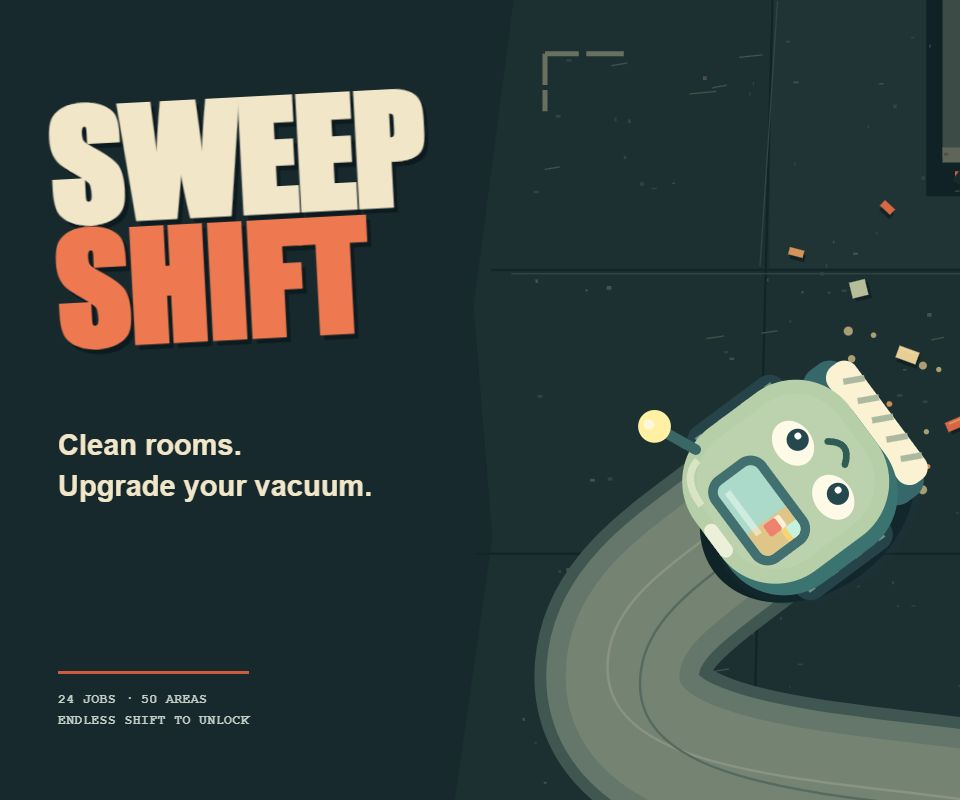
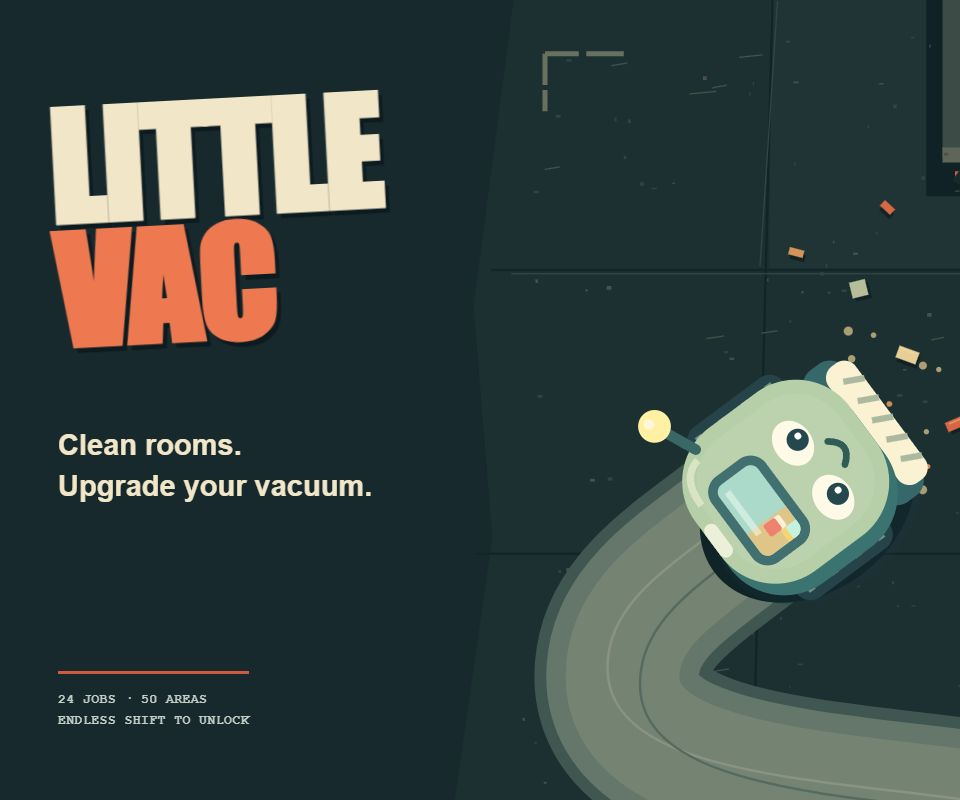
Rename Sweep Shift to Little Vac

Changed region(s): [[0.0312, 0.0938, 0.4688, 0.4375]]

diff --git a/dist/app.js b/dist/app.js
@@ -56,7 +56,7 @@ function renderHome(focus=true){
   const target=continueTarget(),active=target.type==='resume',room=target.room,progressed=career.completed.length>0||Object.values(career.upgrades).some(Boolean),count=affordable(career).length;
   const label={resume:'Resume room',ending:'Finish campaign',endless:'Play endless',rooms:'Choose a room',room:progressed?'Continue':'Play'}[target.type];
   const caption=room?(room.id?`Room ${room.id} · ${room.name}`:'Endless Shift'):'';
-  main.innerHTML=`<section class="home-menu"><canvas id="titleArt" class="title-art" width="960" height="640" aria-hidden="true"></canvas><div class="title-content"><h1 class="title-logo">SWEEP <span>SHIFT</span></h1><nav class="title-options" aria-label="Main menu">${action('continue',`<span>${label}</span><span class="title-play-arrow" aria-hidden="true">▶</span>`,'home-play title-choice')}${caption?`<p class="title-next">${esc(caption)}</p>`:''}${action('rooms','Rooms','title-choice')}${action('shop',`<span>Upgrades${active?' <small>Locked</small>':count?` <small>${count} ready</small>`:''}</span>`,'title-choice',active?'title="Finish or quit this job before upgrading"':'')}${action('controls','How to play','title-choice')}</nav></div></section>`;
+  main.innerHTML=`<section class="home-menu"><canvas id="titleArt" class="title-art" width="960" height="640" aria-hidden="true"></canvas><div class="title-content"><h1 class="title-logo">LITTLE <span>VAC</span></h1><nav class="title-options" aria-label="Main menu">${action('continue',`<span>${label}</span><span class="title-play-arrow" aria-hidden="true">▶</span>`,'home-play title-choice')}${caption?`<p class="title-next">${esc(caption)}</p>`:''}${action('rooms','Rooms','title-choice')}${action('shop',`<span>Upgrades${active?' <small>Locked</small>':count?` <small>${count} ready</small>`:''}</span>`,'title-choice',active?'title="Finish or quit this job before upgrading"':'')}${action('controls','How to play','title-choice')}</nav></div></section>`;
   const art=$('#titleArt'),artCtx=art.getContext('2d'),dpr=Math.min(2,window.devicePixelRatio||1);
   art.width=960*dpr;art.height=640*dpr;artCtx.setTransform(dpr,0,0,dpr,0,0);drawTitle(artCtx,0,true);
   bindActions(main,focus);
@@ -183,7 +183,7 @@ function jobDetails(){const r=run;return `<details class="pause-details"><summar
 function pause(){if(screen!=='play'||!hasActiveRun()||modal.open)return;openModal(`<section class="pause-menu"><p class="pause-caption">TAKE A BREATHER</p><h2 id="modalTitle">PAUSED</h2><p class="pause-room">${esc(run.room.name)}<br>${areaCount()>1?`Area ${areaNumber()} of ${areaCount()} · `:''}${Math.floor(run.percent*100)}% clean</p><div class="pause-options">${action('resume','<span>Resume</span><span aria-hidden="true">▶</span>','pause-resume')}<div class="pause-shortcuts">${action('rooms','Rooms')}${action('shop','Upgrades')}</div>${action('controls','How to play')}${action('settings','Settings')}${action('title','Main menu')}</div>${jobDetails()}<div class="pause-leave"><div>${action('restart','Restart','ghost')}${action('quit','Quit & upgrade','pause-quit')}</div><p>Restarting or quitting loses unfinished coins.</p></div></section>`,'pause');}
 function settings(){const backToPause=dialogScreen==='pause';if(modal.open)modal.close();openModal(`<h2 id="modalTitle">Settings</h2><label class="setting-row">Sound effects<input id="muteSetting" type="checkbox" ${!career.settings.muted?'checked':''}></label><label class="setting-row">Effects volume<input id="volumeSetting" aria-label="Effects volume" type="range" min="0" max="1" step=".05" value="${career.settings.effects}"></label><label class="setting-row">Reduced motion<input id="motionSetting" type="checkbox" ${career.settings.reducedMotion?'checked':''}></label><p>Finished rooms, coins, and purchases save automatically. Browsing menus keeps your current room paused. Upgrades open after you finish or quit the room. Restarting, quitting, or closing the game discards unfinished cleaning.</p><div class="button-row">${action(backToPause?'back-pause':'resume',backToPause?'Back to pause':'Done','primary')}${action('new','Reset career','ghost')}</div>`,backToPause?'pause-child':'');$('#muteSetting').onchange=async e=>{const value=!e.target.checked;await save(c=>{c.settings.muted=value;});};$('#volumeSetting').onchange=async e=>{const value=Number(e.target.value);await save(c=>{c.settings.effects=value;});};$('#motionSetting').onchange=async e=>{const value=e.target.checked;await save(c=>{c.settings.reducedMotion=value;});};}
 function controls(){const backToPause=dialogScreen==='pause';if(modal.open)modal.close();openModal(`<section class="how-to-play"><h2 id="modalTitle">How to play</h2>${quickGuide()}<details class="guide-tips"><summary>A few extra tips</summary><ul><li><strong>Pause:</strong> press Esc or the Pause button.</li><li><strong>Stop:</strong> move the mouse outside the room, or release your keys / touch.</li><li><strong>Last bits of dirt:</strong> look for yellow circles.</li><li><strong>Heavy dust:</strong> stay over it a little longer.</li><li><strong>Hallways:</strong> clean 100% to unlock the next door. Once open, walk both ways. Rooms and your bag stay as you left them.</li><li><strong>Upgrades:</strong> finish the job, or pause and quit. Quitting loses this job’s unfinished coins.</li></ul></details><div class="button-row">${action(backToPause?'back-pause':'resume',backToPause?'Back to pause':screen==='play'?'Back to room':'Got it','primary')}</div></section>`,backToPause?'pause-child':'');}
-function credits(){if(modal.open)modal.close();openModal(`<h2 id="modalTitle">Credits</h2><div class="credit-list"><p><strong>Sweep Shift</strong><br>A tiny cleaning game by Nathan Norris.</p><p>Built with JavaScript, Canvas, and synthesized Web Audio. All game artwork is drawn by original code. No external runtime assets or libraries are required.</p><p>Created with AI assistance for implementation, design iteration, writing, and testing.</p><p>Thanks for playing.</p></div><div class="button-row">${action('resume','Close','primary')}</div>`);}
+function credits(){if(modal.open)modal.close();openModal(`<h2 id="modalTitle">Credits</h2><div class="credit-list"><p><strong>Little Vac</strong><br>A tiny cleaning game by Nathan Norris.</p><p>Built with JavaScript, Canvas, and synthesized Web Audio. All game artwork is drawn by original code. No external runtime assets or libraries are required.</p><p>Created with AI assistance for implementation, design iteration, writing, and testing.</p><p>Thanks for playing.</p></div><div class="button-row">${action('resume','Close','primary')}</div>`);}
 function confirmReset(){const backToPause=dialogScreen==='pause-child';if(modal.open)modal.close();openModal(`<h2 id="modalTitle">Reset your progress?</h2><p>This resets your rooms, coins, upgrades, medals, and treasures. Your current career cannot be restored afterward.</p><div class="button-row">${action(backToPause?'back-pause':'resume','Keep my career','primary')}${action('reset-confirm','Reset and start again')}</div>`,backToPause?'pause-child':'');}
 function continueShift(){
   const target=continueTarget();

diff --git a/dist/index.html b/dist/index.html
@@ -1,5 +1,5 @@
 <!doctype html>
-<html lang="en"><head><meta charset="utf-8"><meta name="viewport" content="width=device-width,initial-scale=1,viewport-fit=cover"><meta name="theme-color" content="#17292d"><meta name="description" content="Guide a tiny vacuum robot through 24 jobs and 50 messy areas. Clean up, earn coins, upgrade your robot, and unlock Endless Shift."><title>Sweep Shift — Robot cleaning game</title><link rel="icon" href="icon.svg"><link rel="stylesheet" href="style.css"></head>
-<body><div id="app"><header class="masthead"><a class="wordmark" href="#" id="homeLink" aria-label="Sweep Shift home"><img src="icon.svg" width="29" height="29" alt="">SWEEP SHIFT</a><div class="header-right"><button id="soundBtn" class="icon-button" aria-label="Mute sound">♪</button><button id="settingsBtn" class="icon-button" aria-label="Settings">⚙</button></div></header><nav id="gameNav" aria-label="Game navigation"></nav><div id="saveWarning" class="save-warning" role="status" hidden></div>
-<main id="main"></main><footer class="footer"><span>By Nathan Norris</span><button id="creditsBtn">Credits</button><span class="version">v1.6.2</span></footer></div>
+<html lang="en"><head><meta charset="utf-8"><meta name="viewport" content="width=device-width,initial-scale=1,viewport-fit=cover"><meta name="theme-color" content="#17292d"><meta name="description" content="Guide a tiny vacuum robot through 24 jobs and 50 messy areas. Clean up, earn coins, upgrade your robot, and unlock Endless Shift."><title>Little Vac — Robot cleaning game</title><link rel="icon" href="icon.svg"><link rel="stylesheet" href="style.css"></head>
+<body><div id="app"><header class="masthead"><a class="wordmark" href="#" id="homeLink" aria-label="Little Vac home"><img src="icon.svg" width="29" height="29" alt="">LITTLE VAC</a><div class="header-right"><button id="soundBtn" class="icon-button" aria-label="Mute sound">♪</button><button id="settingsBtn" class="icon-button" aria-label="Settings">⚙</button></div></header><nav id="gameNav" aria-label="Game navigation"></nav><div id="saveWarning" class="save-warning" role="status" hidden></div>
+<main id="main"></main><footer class="footer"><span>By Nathan Norris</span><button id="creditsBtn">Credits</button><span class="version">v1.6.3</span></footer></div>
 <dialog id="modal" aria-labelledby="modalTitle"><div id="modalContent"></div></dialog><div id="toast" role="status" aria-live="polite"></div><div id="announcement" class="sr-only" aria-live="polite"></div><script type="module" src="app.js"></script></body></html>

diff --git a/marketing/banner.html b/marketing/banner.html
@@ -1,5 +1,5 @@
 <!doctype html>
-<html lang="en"><head><meta charset="utf-8"><meta name="viewport" content="width=1260,initial-scale=1"><title>Sweep Shift — Page banner</title>
+<html lang="en"><head><meta charset="utf-8"><meta name="viewport" content="width=1260,initial-scale=1"><title>Little Vac — Page banner</title>
 <style>
 *{box-sizing:border-box}html,body{margin:0;width:1260px;height:320px;overflow:hidden;background:#17292d;color:#f2e6c9}body{font-family:Arial,Helvetica,sans-serif}.banner{position:relative;width:1260px;height:320px;overflow:hidden}canvas{position:absolute;display:block;left:415px;top:-190px;width:880px;height:586.6667px}h1{position:absolute;left:52px;top:47px;margin:0;font:900 105px/.86 Impact,'Arial Black',Arial,sans-serif;letter-spacing:-1.5px;text-shadow:3px 4px 0 #0d1b20;transform:rotate(-3deg);transform-origin:left center}h1 span{display:block;color:#ee7951}.tagline{position:absolute;left:408px;top:93px;margin:0;font-size:29px;line-height:1.35;font-weight:700}.details{position:absolute;left:410px;top:199px;margin:0;padding-top:13px;border-top:3px solid #ce5b3e;font:700 12px/1.5 'Courier New',monospace;letter-spacing:.5px;color:#c3cec6}
-</style></head><body><main class="banner" aria-label="Sweep Shift: Clean rooms. Upgrade your vacuum. 24 jobs and 50 areas."><canvas id="bannerArt" width="1320" height="880" aria-hidden="true"></canvas><h1>SWEEP <span>SHIFT</span></h1><p class="tagline">Clean rooms.<br>Upgrade your vacuum.</p><p class="details">24 JOBS · 50 AREAS<br>ENDLESS SHIFT TO UNLOCK</p></main><script type="module">import {drawTitle} from '../render.js';const ctx=document.querySelector('#bannerArt').getContext('2d');ctx.scale(1320/960,880/640);drawTitle(ctx,0,true);document.documentElement.dataset.bannerReady='true';</script></body></html>
+</style></head><body><main class="banner" aria-label="Little Vac: Clean rooms. Upgrade your vacuum. 24 jobs and 50 areas."><canvas id="bannerArt" width="1320" height="880" aria-hidden="true"></canvas><h1>LITTLE <span>VAC</span></h1><p class="tagline">Clean rooms.<br>Upgrade your vacuum.</p><p class="details">24 JOBS · 50 AREAS<br>ENDLESS SHIFT TO UNLOCK</p></main><script type="module">import {drawTitle} from '../render.js';const ctx=document.querySelector('#bannerArt').getContext('2d');ctx.scale(1320/960,880/640);drawTitle(ctx,0,true);document.documentElement.dataset.bannerReady='true';</script></body></html>

diff --git a/marketing/launch.html b/marketing/launch.html
@@ -1,5 +1,5 @@
 <!doctype html>
-<html lang="en"><head><meta charset="utf-8"><meta name="viewport" content="width=960,initial-scale=1"><title>Sweep Shift — Launch artwork</title>
+<html lang="en"><head><meta charset="utf-8"><meta name="viewport" content="width=960,initial-scale=1"><title>Little Vac — Launch artwork</title>
 <style>
 *{box-sizing:border-box}html,body{margin:0;width:960px;height:800px;overflow:hidden;background:#17292d;color:#f2e6c9}body{font-family:Arial,Helvetica,sans-serif}.launch{position:relative;width:960px;height:800px;overflow:hidden}canvas{position:absolute;display:block;left:-120px;top:0;width:1200px;height:800px}h1{position:absolute;left:53px;top:104px;margin:0;font:900 144px/.86 Impact,'Arial Black',Arial,sans-serif;letter-spacing:-2px;text-shadow:4px 5px 0 #0d1b20;transform:rotate(-3deg);transform-origin:left center}h1 span{display:block;color:#ee7951}.tagline{position:absolute;left:58px;top:425px;margin:0;font-size:29px;line-height:1.4;font-weight:700}.details{position:absolute;left:58px;bottom:68px;margin:0;padding-top:16px;border-top:3px solid #ce5b3e;font:700 13px/1.6 'Courier New',monospace;letter-spacing:.5px;color:#c3cec6}
-</style></head><body><main class="launch" aria-label="Sweep Shift: a robot cleaning game with 24 jobs and 50 areas."><canvas id="launchArt" width="1200" height="800" aria-hidden="true"></canvas><h1>SWEEP <span>SHIFT</span></h1><p class="tagline">Clean rooms.<br>Upgrade your vacuum.</p><p class="details">24 JOBS · 50 AREAS<br>ENDLESS SHIFT TO UNLOCK</p></main><script type="module">import {drawTitle} from '../render.js';const ctx=document.querySelector('#launchArt').getContext('2d');ctx.scale(1200/960,800/640);drawTitle(ctx,0,true);document.documentElement.dataset.launchReady='true';</script></body></html>
+</style></head><body><main class="launch" aria-label="Little Vac: a robot cleaning game with 24 jobs and 50 areas."><canvas id="launchArt" width="1200" height="800" aria-hidden="true"></canvas><h1>LITTLE <span>VAC</span></h1><p class="tagline">Clean rooms.<br>Upgrade your vacuum.</p><p class="details">24 JOBS · 50 AREAS<br>ENDLESS SHIFT TO UNLOCK</p></main><script type="module">import {drawTitle} from '../render.js';const ctx=document.querySelector('#launchArt').getContext('2d');ctx.scale(1200/960,800/640);drawTitle(ctx,0,true);document.documentElement.dataset.launchReady='true';</script></body></html>

diff --git a/marketing/cover.html b/marketing/cover.html
@@ -3,8 +3,8 @@
 <head>
   <meta charset="utf-8">
   <meta name="viewport" content="width=1260,initial-scale=1">
-  <meta name="description" content="Sweep Shift cover using the game's workshop title artwork.">
-  <title>Sweep Shift — Cover artwork</title>
+  <meta name="description" content="Little Vac cover using the game's workshop title artwork.">
+  <title>Little Vac — Cover artwork</title>
   <style>
     *{box-sizing:border-box}html,body{margin:0;width:1260px;height:1000px;overflow:hidden;background:#17292d;color:#f2e6c9}
     body{font-family:Arial,Helvetica,sans-serif}.cover{position:relative;width:1260px;height:1000px;overflow:hidden}
@@ -14,9 +14,9 @@
     .details{position:absolute;left:80px;bottom:85px;margin:0;padding-top:19px;border-top:4px solid #ce5b3e;font:700 17px/1.7 'Courier New',monospace;letter-spacing:1px;color:#c3cec6}
   </style>
 </head>
-<body><main class="cover" aria-label="Sweep Shift: a vacuum robot leaving a clean trail across a workshop floor.">
+<body><main class="cover" aria-label="Little Vac: a vacuum robot leaving a clean trail across a workshop floor.">
   <canvas id="coverArt" width="1500" height="1000" aria-hidden="true"></canvas>
-  <h1>SWEEP <span>SHIFT</span></h1>
+  <h1>LITTLE <span>VAC</span></h1>
   <p class="tagline">Clean rooms.<br>Upgrade your vacuum.</p>
   <p class="details">24 JOBS · 50 AREAS<br>ENDLESS SHIFT TO UNLOCK</p>
 </main><script type="module">import {drawTitle} from '../render.js';const canvas=document.querySelector('#coverArt'),ctx=canvas.getContext('2d');ctx.scale(1500/960,1000/640);drawTitle(ctx,0,true);document.documentElement.dataset.coverReady='true';</script></body>

diff --git a/dist/rooms.js b/dist/rooms.js
@@ -4,7 +4,7 @@ export const LOCATIONS = [
   { name: 'Workshop', subtitle: 'Wooden workbenches, tools, and sawdust.', palette: { floor: '#c99b65', floor2: '#d4aa76', wall: '#715239', accent: '#ecb668', dark: '#382c25' }, trinkets: ['Tiny wrench', 'Brass button', 'Wooden duck', 'Lucky bolt', 'Blue marble', 'Pocket robot'] },
   { name: 'After-Hours Arcade', subtitle: 'Neon cabinets, patterned carpet, and leftover tickets.', palette: { floor: '#28243e', floor2: '#302a48', wall: '#57436f', accent: '#79e4f2', dark: '#131b30' }, trinkets: ['Arcade token', 'Pixel heart', 'Prize ticket', 'Glow star', 'Mini spaceship', 'Golden joystick'] },
   { name: 'Greenhouse', subtitle: 'Glass walls, growing beds, and fallen leaves.', palette: { floor: '#beaa8b', floor2: '#ccb99a', wall: '#457b6a', accent: '#7cbf79', dark: '#213f35' }, trinkets: ['Seed locket', 'Ceramic snail', 'Ladybird pin', 'Painted pebble', 'Tiny watering can', 'Sunflower badge'] },
-  { name: 'Rooftop Party', subtitle: 'A wooden deck above the city, after the party.', palette: { floor: '#967163', floor2: '#aa8070', wall: '#526071', accent: '#f5c77b', dark: '#203246' }, trinkets: ['Paper crown', 'Disco charm', 'Little lantern', 'Confetti coin', 'Moon pendant', 'Sweep Shift trophy'] },
+  { name: 'Rooftop Party', subtitle: 'A wooden deck above the city, after the party.', palette: { floor: '#967163', floor2: '#aa8070', wall: '#526071', accent: '#f5c77b', dark: '#203246' }, trinkets: ['Paper crown', 'Disco charm', 'Little lantern', 'Confetti coin', 'Moon pendant', 'Little Vac trophy'] },
 ];
 
 const plans = [

diff --git a/marketing/description.html b/marketing/description.html
@@ -1,4 +1,4 @@
-<p>Guide a small vacuum robot through <strong>24 jobs and 50 areas</strong> in a workshop, an arcade, a greenhouse, and a rooftop after a party.</p>
+<p>In <strong>Little Vac</strong>, guide a small vacuum robot through <strong>24 jobs and 50 areas</strong> in a workshop, an arcade, a greenhouse, and a rooftop after a party.</p>
 <ul>
 <li><strong>Upgrade your vacuum</strong> with a wider sweep, bigger bag, quicker wheels, and stronger suction. Buy upgrades between jobs. Later dust and stuck scraps need more suction.</li>
 <li><strong>Open hallways</strong> by cleaning each area to 100%. Later jobs span up to four areas. Walk back and forth; cleaned floors and your bag stay intact.</li>

diff --git a/dist/render.js b/dist/render.js
@@ -1,4 +1,4 @@
-/* Original Canvas artwork for Sweep Shift. No downloaded art, fonts, or assets. */
+/* Original Canvas artwork for Little Vac. No downloaded art, fonts, or assets. */
 import { LOCATIONS, isWalkable } from './rooms.js';
 import { areaOffset, hallwayFor } from './world.js';
 const W = 960, H = 640, CELL = 40;

diff --git a/docs/COMPARABLE-GAMES.md b/docs/COMPARABLE-GAMES.md
@@ -1,21 +1,21 @@
-# Sweep Shift: comparable-game research
+# Little Vac: comparable-game research
 
-Research date: 2026-09-17. The first pass reviewed developer/publisher store copy; the second pass reviewed developer support posts and patch notes. This is not a playtest of the comparison games or evidence that a particular wording will increase sales. Prices, reviews, and user-assigned tags were not used to make design decisions.
+Research date: 2026-09-17. This historical research informed versions 1.1–1.1.2; the product name was updated to Little Vac in 1.6.3. The older 95% finish target and startup wording below are historical and do not describe the current game. The first pass reviewed developer/publisher store copy; the second pass reviewed developer support posts and patch notes. This is not a playtest of the comparison games or evidence that a particular wording will increase sales. Prices, reviews, and user-assigned tags were not used to make design decisions.
 
 ## What the sources show
 
-| Primary source | What its published copy actually supports | Lesson inferred for Sweep Shift |
+| Primary source | What its published copy actually supports | Lesson inferred for Little Vac |
 | --- | --- | --- |
-| [PowerWash Simulator — developer Steam listing](https://store.steampowered.com/app/1290000/PowerWash_Simulator/) | The title names the central activity. Its opening describes the cleaning action and sensory satisfaction. The longer description connects career jobs to tools and upgrades. Separate sections distinguish relaxed career/free play from timed or resource-based challenges. | State the action immediately, then the upgrade loop. Explain that medals are optional rather than implying Sweep Shift has no recorded time. |
-| [Fresh Start Cleaning Simulator — publisher Steam listing](https://store.steampowered.com/app/1856030/Fresh_Start_Cleaning_Simulator/) | A distinctive name is followed by a literal cleaning descriptor. The description emphasizes visible environmental restoration. Separate sections explain collected rubbish becoming experience and experience buying efficiency upgrades. | Keep the Sweep Shift name while adding a short genre descriptor in discovery surfaces. Explicitly connect finishing rooms, saved coins, and robot upgrades. |
+| [PowerWash Simulator — developer Steam listing](https://store.steampowered.com/app/1290000/PowerWash_Simulator/) | The title names the central activity. Its opening describes the cleaning action and sensory satisfaction. The longer description connects career jobs to tools and upgrades. Separate sections distinguish relaxed career/free play from timed or resource-based challenges. | State the action immediately, then the upgrade loop. Explain that medals are optional rather than implying Little Vac has no recorded time. |
+| [Fresh Start Cleaning Simulator — publisher Steam listing](https://store.steampowered.com/app/1856030/Fresh_Start_Cleaning_Simulator/) | A distinctive name is followed by a literal cleaning descriptor. The description emphasizes visible environmental restoration. Separate sections explain collected rubbish becoming experience and experience buying efficiency upgrades. | Keep the Little Vac name while adding a short genre descriptor in discovery surfaces. Explicitly connect finishing rooms, saved coins, and robot upgrades. |
 | [Loddlenaut — publisher Steam listing](https://store.steampowered.com/app/1644940/Loddlenaut/) | The developer-written description establishes the player's role and setting, then uses short action-led feature bullets for exploration, creature care, cleaning, special tools, and recycling into upgrades. | A playful brand can work if the next sentence tells the player who they control and what they do. Separate core actions, progression, and optional treasures into short, concrete explanations. |
-| [Dream Cleaner — creator itch.io page](https://overcookedwalrus.itch.io/dream-cleaner) | The creator's short About paragraph describes cleaning rooms, disposing of trash, earning money, and buying upgrades. A nearby Controls list names movement, interaction, and the key that opens the upgrade store. The page labels the game as in development. | Put the complete cleaning/reward loop and how to reach upgrades near the Play control. For Sweep Shift, visible navigation is clearer than requiring players to discover an undocumented key. |
+| [Dream Cleaner — creator itch.io page](https://overcookedwalrus.itch.io/dream-cleaner) | The creator's short About paragraph describes cleaning rooms, disposing of trash, earning money, and buying upgrades. A nearby Controls list names movement, interaction, and the key that opens the upgrade store. The page labels the game as in development. | Put the complete cleaning/reward loop and how to reach upgrades near the Play control. For Little Vac, visible navigation is clearer than requiring players to discover an undocumented key. |
 
 These pages establish how those games describe themselves. The recommendations in the last column are our editorial interpretation. No claim about their in-game menus, conversion rates, or control quality is made from store copy alone.
 
-## Original wording for Sweep Shift
+## Original wording for Little Vac
 
-Use the existing **Sweep Shift** brand. For the store title, browser title, or search description, a clear expanded name is **Sweep Shift — Cozy Robot Cleaning**. Keep the short wordmark in the game itself.
+Use the existing **Little Vac** brand. For the store title, browser title, or search description, a clear expanded name is **Little Vac — Cozy Robot Cleaning**. Keep the short wordmark in the game itself.
 
 Suggested short description:
 
@@ -48,13 +48,13 @@ Touch instructions should be shown when relevant to the input/viewport: **Drag t
 - Resume action: **Resume cleaning**, followed by the room name and saved in-session cleaning percentage.
 - Relaxed-play reassurance: **No lives or failed rooms. Time medals are optional.**
 
-Avoid replacing literal navigation labels with mood copy such as “Your next fresh start” or “A better kind of clean.” Those phrases can remain as supporting flavor. Avoid advertising idle automation, prestige, or an infinite campaign: Sweep Shift has a finite authored campaign and an unlockable generated mode.
+Avoid replacing literal navigation labels with mood copy such as “Your next fresh start” or “A better kind of clean.” Those phrases can remain as supporting flavor. Avoid advertising idle automation, prestige, or an infinite campaign: Little Vac has a finite authored campaign and an unlockable generated mode.
 
-All proposed Sweep Shift sentences above are original wording based on this game's implemented behavior. No comparison-game taglines, artwork, or long passages are copied.
+All proposed Little Vac sentences above are original wording based on this game's implemented behavior. No comparison-game taglines, artwork, or long passages are copied.
 
 ## Applied in version 1.1
 
-The store brand remains **Sweep Shift**. The browser title is **Sweep Shift — A cozy robot cleaning game**. The saved store tagline is: “Clean 24 rooms, earn coins, and upgrade a tiny vacuum robot. A cozy browser game with endless shifts to unlock.” The opening, feature bullets, controls, and save explanation were rewritten in marketing/description.html. The game now says **Move to vacuum**, **Dock to empty**, and **Finish & upgrade**, and distinguishes saved coins from unfinished-room earnings.
+At version 1.1, the store and browser titles used the former brand name. The current name is **Little Vac**. The saved store tagline is: “Clean 24 rooms, earn coins, and upgrade a tiny vacuum robot. A cozy browser game with endless shifts to unlock.” The opening, feature bullets, controls, and save explanation were rewritten in marketing/description.html. The game now says **Move to vacuum**, **Dock to empty**, and **Finish & upgrade**, and distinguishes saved coins from unfinished-room earnings.
 
 ## Second pass: clarity while playing
 
@@ -62,10 +62,10 @@ This pass reviewed local version 1.1.1 and informed the local 1.1.2 changes list
 
 ### Primary evidence
 
-| Developer source and date | Published fact | Design inference for Sweep Shift |
+| Developer source and date | Published fact | Design inference for Little Vac |
 | --- | --- | --- |
-| [PowerWash Simulator: Help, Where's The Last Dirt?](https://steamcommunity.com/app/1290000/discussions/2/3111403360720627988/) — developer-tagged pinned post, May 19, 2021, edited December 9, 2021 | The developer describes a remaining-dirt highlight and a Details view with per-part completion percentages and selected-part highlighting. This is historical documented behavior, not a claim that today's controls are identical. | Finishing should depend on finding visible work, not spotting nearly invisible pixels. Keep Sweep Shift's automatic hints and forgiving finish threshold. Explain the target beside the live percentage. |
-| [Loddlenaut: official news](https://steamcommunity.com/app/1644940/allnews/) — September 19 and October 30, 2024 entries | The Goddles update adds a progression-gated map view for locating pollutants and an inventory-capacity upgrade. Version 1.2.3 fixes pollution tracking and a fully cleaned biome remaining at 99%. | Progress totals must match actual remaining work, including when objects disappear. Capacity upgrades should explain the practical benefit. Sweep Shift already has a visible bag count, comparison values, and 80%-clean debris outlines; it does not need a separate scanner system. |
+| [PowerWash Simulator: Help, Where's The Last Dirt?](https://steamcommunity.com/app/1290000/discussions/2/3111403360720627988/) — developer-tagged pinned post, May 19, 2021, edited December 9, 2021 | The developer describes a remaining-dirt highlight and a Details view with per-part completion percentages and selected-part highlighting. This is historical documented behavior, not a claim that today's controls are identical. | Finishing should depend on finding visible work, not spotting nearly invisible pixels. Keep Little Vac's automatic hints and forgiving finish threshold. Explain the target beside the live percentage. |
+| [Loddlenaut: official news](https://steamcommunity.com/app/1644940/allnews/) — September 19 and October 30, 2024 entries | The Goddles update adds a progression-gated map view for locating pollutants and an inventory-capacity upgrade. Version 1.2.3 fixes pollution tracking and a fully cleaned biome remaining at 99%. | Progress totals must match actual remaining work, including when objects disappear. Capacity upgrades should explain the practical benefit. Little Vac already has a visible bag count, comparison values, and 80%-clean debris outlines; it does not need a separate scanner system. |
 | [Fresh Start Cleaning Simulator: official news](https://steamcommunity.com/app/1856030/allnews/) — December 29, 2022 and January 19, 2023 entries | Patch notes add an explicit replay button on the world map and a controls guide accessible beyond the tutorial. | Players should not have to restart the tutorial to remember controls. Completed room buttons should make their replay action explicit. |
 | [Fresh Start Cleaning Simulator: official news](https://steamcommunity.com/app/1856030/allnews/) — December 20, 2022 and January 28, 2025 entries | The release announcement calls out more readable UI and a larger objective icon. The later patch documents fixes to completion, scanner behavior, obscured buttons, and loading-bar visibility. | Check instructions and important states at the actual browser embed size. Distinguish a mechanic that is functioning from one the player can readily understand. |
 

diff --git a/marketing/UPLOAD-NOTES.md b/marketing/UPLOAD-NOTES.md
@@ -1,40 +1,44 @@
-# Sweep Shift 1.6.2 — upload handoff
+# Little Vac 1.6.3 — upload handoff
 
-Updated September 19, 2026. The 1.6.2 game ZIP is uploaded to the existing itch.io draft. Reload confirmed the actual hosted version, shorter description, and simplified store setup. The Draft badge remains visible; the page has not been published publicly.
+Updated September 19, 2026. Version **1.6.3** is the Little Vac branding update. Packaging, refreshed artwork capture, and the GitHub/itch.io renames are complete. Hosted upload and verification are pending. The page remains in Draft and has not been published publicly.
 
-Draft: https://fooded.itch.io/sweep-shift (project 5021059).
+Current draft destination: https://fooded.itch.io/little-vac (existing project 5021059). Current source destination: https://github.com/NathanWNorris/little-vac. Both remote renames have been saved. The 1.6.3 build still needs upload and actual hosted verification.
 
-## Files in artifacts/publish-1.6.2
+## Files in artifacts/publish-1.6.3
 
-- `sweep-shift-itch.zip`: HTML game, index.html at its root, 12 runtime files.
-- `cover.png`: 1260 × 1000 cover image.
-- `launch.png`: 960 × 800 launch-image backup. The new setup loads Home automatically.
-- `gallery/`: six current screenshots. These replace the old 1.1.0 gallery; do not use the historical JPGs elsewhere in marketing.
-- `description.html`: current store description.
-- `manifest.json`: file sizes and SHA-256 hashes.
[1 lines of base64/hex data omitted]
+- `cover.png`: 1260 × 1000 cover, regenerated from the Little Vac template.
+- `launch.png`: 960 × 800 launch-image backup, regenerated with the new name. The store loads Home automatically.
+- `gallery/`: six current screenshots. Rooms and Upgrades were recaptured with Little Vac branding; four gameplay images contain no old wordmark and are unchanged.
+- `description.html`: current store description, opening with the Little Vac name.
+- `manifest.json`: file sizes and SHA-256 hashes for every other file in this handoff.
 
-No page banner is required. The previous banner remains in the historical `publish-1.6.1` folder as a backup.
+No page banner is required. The branded banner template is retained as an optional source asset, not a required store element.
 
 Short description: **Clean 50 areas, upgrade your vacuum, and open new hallways. Finish 24 jobs to unlock Endless Shift.**
 
 ## Draft setup
 
-Use the ZIP as the browser-playable HTML game. Retain the current cover, six gallery screenshots, free/no-payments setup, and AI-assistance disclosure. Store colors are background #17292d, content #f2e6c9, text #203b3b, and links #a63e27. The embed is 960 × 800 with fullscreen and scrollbars enabled.
+Use the ZIP as the browser-playable HTML game. Retain the six-image gallery, free/no-payments setup, and AI-assistance disclosure. Store colors are background #17292d, content #f2e6c9, text #203b3b, and links #a63e27. The embed is 960 × 800 with fullscreen and scrollbars enabled.
 
-The saved update enables autostart so the unchanged Home screen appears without a separate launch-image click, removes the oversized page banner, and uses the 197-word `description.html`. The saved theme and exactly six gallery links persisted after reload. Home autoloading does not begin a cleaning job. The actual hosted footer displays v1.6.2.
+Keep autostart enabled so the Home screen appears without a separate launch-image click. Home autoloading does not begin a cleaning job. Preserve the compact prompt after the first completed room and the full manual picture guide. Check the Little Vac title, cover, current gallery, description, and version 1.6.3 on the actual hosted build after upload.
 
-Hosted check: Continue from the existing completed-Room-1 career opened Room 2 with its floor visible and a compact left-click/WASD prompt. The vacuum was parked at 0% with an empty 0 / 120 bag. Pressing D removed the prompt and started the job. Pause → How to play still displayed the full three-step illustrated guide. This targeted check did not complete another job or buy an upgrade.
-
-Historical fullscreen limitation: itch.io's external fullscreen control could not be activated under automated Chrome during the 1.6.1 smoke test. Errors came from the host page, not the game iframe. Fullscreen remains unverified; this tutorial patch does not change it.
+The legacy `sweep-shift-career-v1` save key stays unchanged for compatibility. This is a branding update; no new campaign, balance, or save-format change is claimed.
 
 Keep the page in Draft. The user's publishing boundary is to stop at the final public-publish action, even after hosted checks finish.
 
 Editor: https://itch.io/game/edit/5021059#published. Do not select Public or perform the final public-publish action.
 
-## Validation scope
+## Current validation
 
-Version 1.6.2 replaces the full automatic picture guide with a compact start prompt after the first completed room. Manual How to play keeps the full guide. Targeted checks passed 42 app groups, 17 input groups, syntax checking, and desktop/320px visual QA. The new regression covers the first-success boundary, parked idle state, click/WASD starts, replay after reload, and manual Help.
+Version 1.6.3 passed 42 app groups, 17 input groups, syntax checking, and package integrity checks. The new cover, launch, and optional banner have the required 1260 × 1000, 960 × 800, and 1260 × 320 dimensions. Hosted upload, title/artwork review, startup/help checks, and final Draft verification remain pending.
 
-Simulation, room content, balance, and saves are unchanged. The full 24-job/50-area campaign, three Endless runs, earned upgrade/reload browser check, and late-room hallway check belong to the prior 1.6.1 validation; they were not repeated for this small tutorial patch. PLAYTEST.md preserves the detailed evidence and limitations.
+Five obsolete JPG screenshots are preserved locally in `artifacts/legacy-branding-1.6.2` and in Git history. They are not included in this handoff.
 
[1 lines of base64/hex data omitted]
+## Historical validation
+
+Version 1.6.2 passed 42 app groups, 17 input groups, syntax checking, and desktop/320px visual QA. Its actual hosted startup/help check confirmed the compact start prompt, WASD activation, full manual guide, automatic Home loading, no oversized page banner, and six gallery links. Those are historical results, not validation of the renamed 1.6.3 package.
+
[1 lines of base64/hex data omitted]
+
+The full 24-job/50-area campaign and deeper engine checks belong to earlier validation documented in PLAYTEST.md. No physical-phone test is claimed. itch.io's external fullscreen control could not be activated under automated Chrome during the 1.6.1 smoke test; errors came from the host page, not the game iframe. Fullscreen remains unverified.

diff --git a/RELEASE.md b/RELEASE.md
@@ -1,8 +1,23 @@
-# Sweep Shift 1.6.2 draft release candidate
+# Little Vac 1.6.3 draft release candidate
+
+Version **1.6.3** renames the game to **Little Vac**. Packaging, refreshed branded artwork, and the GitHub/itch.io renames are complete. Hosted upload and validation are pending. **The itch.io page remains Draft; public publishing has not been performed.**
+
+## Current branding release — 2026-09-19
+
+- Current source destination: [NathanWNorris/little-vac](https://github.com/NathanWNorris/little-vac). Current draft destination: [Little Vac](https://fooded.itch.io/little-vac), existing project **5021059**. Both renames have been saved; the new hosted build has not yet been verified.
+- The title, wordmark, browser metadata, marketing templates, and current links use Little Vac. The cream/red/dark-green theme and robot artwork are retained.
+- Retain the legacy `sweep-shift-career-v1` save key for compatibility. Physics, room content, upgrade balance, and the tutorial rules are outside this branding change.
+- Packaged `artifacts/little-vac-itch.zip`: **64,759 bytes**, **12 runtime files**, root `index.html`, SHA-256 **d8e1db30193e66843f193aaeafbfcdfac69de94a1c9455bde4c6d452e2807d39**. Source/archive/extracted hashes match. The complete handoff is `artifacts/publish-1.6.3`.
+- Recaptured branded cover (**1260 × 1000**), launch (**960 × 800**), optional banner (**1260 × 320**), Rooms, and Upgrades images. The four gameplay gallery images contain no old wordmark and are unchanged. Five obsolete JPG screenshots are backed up locally in `artifacts/legacy-branding-1.6.2` and removed from active marketing assets. No oversized page banner is required.
+- Targeted validation passed **42 app groups**, **17 input groups**, and syntax checking. Recheck the title, artwork, startup/help, and draft status on the hosted build after upload. Prior playthrough results below remain historical evidence.
+
+## Historical 1.6.2 draft release candidate
+
+Versions through 1.6.2 used the former **Sweep Shift** name. Their original filenames, URLs, hashes, and test observations below are retained as historical records.
 
 The **1.6.2** ZIP is uploaded to the existing [itch.io draft](https://fooded.itch.io/sweep-shift), project **5021059**. Reload confirmed the actual hosted version, shorter description, and simplified store setup. **The Draft badge remains visible; public publishing has not been performed.**
 
-## Current change and validation — 2026-09-19
+## Historical 1.6.2 change and validation — 2026-09-19
 
 - The illustrated tutorial appears until Room 1 is completed. Later jobs and replays use a compact click/WASD start prompt; **How to play** still opens the full picture guide. The vacuum remains parked until an explicit start action.
 - Targeted validation passed **42 app groups**, **17 input groups**, and syntax checking. The new regression reproduced the old repeated tutorial and verifies its replacement, idle/hover freeze, click/WASD activation, replay after reload, and manual Help. Desktop and **320px** visual checks passed.
@@ -11,7 +26,7 @@ The **1.6.2** ZIP is uploaded to the existing [itch.io draft](https://fooded.itc
 - The existing completed-Room-1 career opened Room 2 with the floor visible and the compact left-click/WASD prompt. It remained parked at **0% and 0 / 120 bag space**. Pressing **D** removed the prompt and started the job; **Pause → How to play** retained the full three-step illustrated guide. This is a targeted hosted startup/help check, not another completed-job or purchase playthrough.
 - The publication boundary remains the final public-publish action. Keep the project in Draft for the user.
 
-## Current upload assets
+## Historical 1.6.2 upload assets
 
 - Game: `artifacts/sweep-shift-itch.zip`, **64,762 bytes**, **12 runtime files** with `index.html` at the root. SHA-256: **90c65a6ab10bb7e2596de99ed80fd9b5188ad45e1e701b0a056f09ecef2c1219**.
 - Handoff: `artifacts/publish-1.6.2`, containing that ZIP, the existing verified cover and gallery PNGs, a launch-image backup, current `description.html`, upload notes, and a file manifest.
@@ -212,7 +227,7 @@ The `artifacts/publish-1.6.1` handoff contains the uploaded ZIP, current PNGs, `
 
 ## Previously inspected 1.1.0 store page
 
-- Title: **Sweep Shift**.
+- Historical title: **Sweep Shift** (renamed Little Vac in 1.6.3).
 - Short description: **Clean 24 rooms, earn coins, and upgrade a tiny vacuum robot. A cozy browser game with endless shifts to unlock.**
 - This historical copy was replaced by the current [store description](marketing/description.html) in the 1.6.1 draft upload.
 - Type: HTML game; Simulation; free/no payments; comments enabled.

diff --git a/README.md b/README.md
@@ -1,8 +1,8 @@
-# Sweep Shift
+# Little Vac
 
 **Clean rooms. Upgrade your vacuum.**
 
-Sweep Shift is a browser game about a small vacuum robot cleaning messy rooms. Clear **24 jobs and 50 areas** across a workshop, an after-hours arcade, a greenhouse, and a rooftop party. Earn coins, improve the vacuum, find optional treasures, and unlock seeded Endless rooms.
+Little Vac is a browser game about a small vacuum robot cleaning messy rooms. Clear **24 jobs and 50 areas** across a workshop, an after-hours arcade, a greenhouse, and a rooftop party. Earn coins, improve the vacuum, find optional treasures, and unlock seeded Endless rooms.
 
 ![The vacuum traveling through an open hallway between two rooms](marketing/06-hallway.png)
 
@@ -10,7 +10,9 @@ Later jobs connect several areas through walkable hallways. Clean an area to 100
 
 Built with **JavaScript, Canvas, and Web Audio**, without external runtime libraries or downloaded art and sound assets. The game includes keyboard, mouse, and touch controls, local saves, and automated campaign and progression checks.
 
-Current build: **1.6.2**. The illustrated tutorial appears until the first completed room. Later jobs and replays use a small click/WASD start prompt; the full guide remains available in **How to play**. The robot always waits at its dock for a deliberate start. Physics, balance, and save format are unchanged.
+Current build: **1.6.3**, the Little Vac branding update. Packaging and targeted automated checks passed; hosted validation for this version is pending. The itch.io page remains a draft; no public-publish action has been taken. The illustrated tutorial appears until the first completed room. Later jobs and replays use a small click/WASD start prompt; the full guide remains available in **How to play**. The robot always waits at its dock for a deliberate start. Physics, balance, and save format are unchanged.
+
+Source: [NathanWNorris/little-vac](https://github.com/NathanWNorris/little-vac). The renamed store is [Little Vac on itch.io](https://fooded.itch.io/little-vac), currently a draft; the 1.6.3 hosted release check is pending.
 
 ## Play
 
@@ -79,7 +81,7 @@ The full physical-playthrough and release verification results are recorded in [
 
 The renderer draws a 960 × 640 world while the surrounding interface adapts to the available screen. Room layouts use a small walkability grid. Simulation and progression are separate so physical collection, currency integrity, and content reachability can be checked independently.
 
-Saves use the versioned key `sweep-shift-career-v1`. Invalid values are bounded or discarded, and unlocked rooms are derived from a contiguous completed campaign route. The recent-run history prevents the same completed run from being credited repeatedly after a reload.
+Saves retain the legacy versioned key `sweep-shift-career-v1` for compatibility with existing progress; the branding update does not rename that key. Invalid values are bounded or discarded, and unlocked rooms are derived from a contiguous completed campaign route. The recent-run history prevents the same completed run from being credited repeatedly after a reload.
 
 Career changes read the latest save before applying a transaction. Where supported, Web Locks serialize these transactions across tabs. A failed read or write preserves the current tab's career in memory for the rest of the session, so an older disk save cannot silently replace it. The fallback without Web Locks does not guarantee cross-process atomicity in every browser.
 
